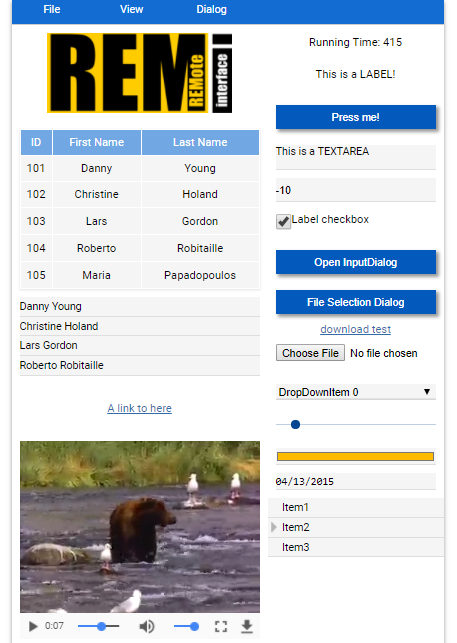
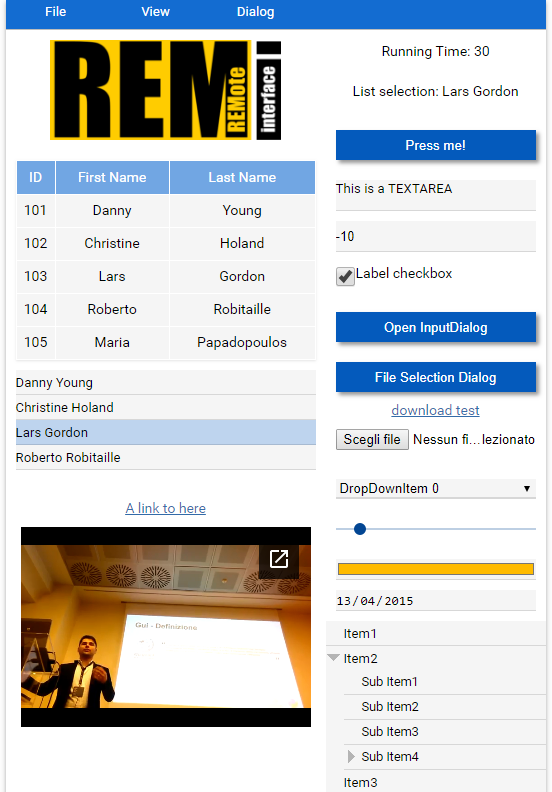
Readme and screenshot changes

diff --git a/examples/widgets_overview_app.py b/examples/widgets_overview_app.py
@@ -90,9 +90,12 @@ class MyApp(App):
         self.date = gui.Date('2015-04-13', width=200, height=20, margin='10px')
         self.date.set_on_change_listener(self.date_changed)
 
-        self.video = gui.VideoPlayer('http://www.w3schools.com/tags/movie.mp4',
-                                     'http://www.oneparallel.com/wp-content/uploads/2011/01/placeholder.jpg',
-                                     width=300, height=270, margin='10px')
+        self.video = gui.Widget( _type='iframe', width=290, height=200, margin='10px')
+        self.video.attributes['src'] = "https://drive.google.com/file/d/0B0J9Lq_MRyn4UFRsblR3UTBZRHc/preview"
+        self.video.attributes['width'] = '100%'
+        self.video.attributes['height'] = '100%'
+        self.video.attributes['controls'] = 'true'
+        self.video.style['border'] = 'none'
                                      
         self.tree = gui.TreeView(width='100%', height=300)
         ti1 = gui.TreeItem("Item1")

diff --git a/README.md b/README.md
@@ -1,4 +1,5 @@
 
+![Alt text](https://raw.githubusercontent.com/dddomodossola/remi/development/remi/res/logo.png "Widgets overview")
 ## *A Platform independent Python GUI library for your applications*
 
 [![Join the chat at https://gitter.im/dddomodossola/remi](https://badges.gitter.im/Join%20Chat.svg)](https://gitter.im/dddomodossola/remi?utm_source=badge&utm_medium=badge&utm_campaign=pr-badge&utm_content=badge)
@@ -30,7 +31,7 @@ Remi
 ===
 Platform independent Python GUI library. In less than 100 Kbytes of source code, perfect for your diet.
 
-![Alt text](https://raw.githubusercontent.com/dddomodossola/remi/master/remi/res/screenshot.png "Widgets overview")
+![Alt text](https://raw.githubusercontent.com/dddomodossola/remi/development/remi/res/screenshot.png "Widgets overview")
 
 Remi enables developers to create platform independent GUI with Python. The entire GUI is converted to HTML and is rendered in your browser. **No HTML** is required, Remi automatically translates your Python code into HTML. When your app starts, it starts a webserver that will be accessible on your network.
 
